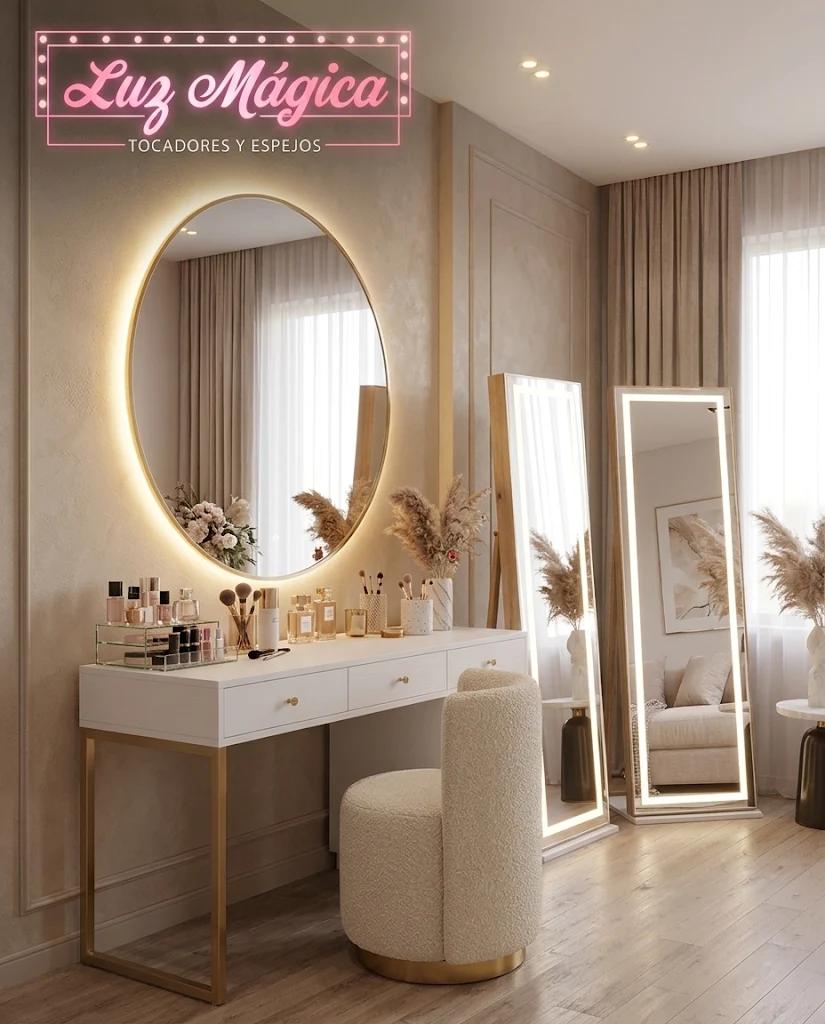
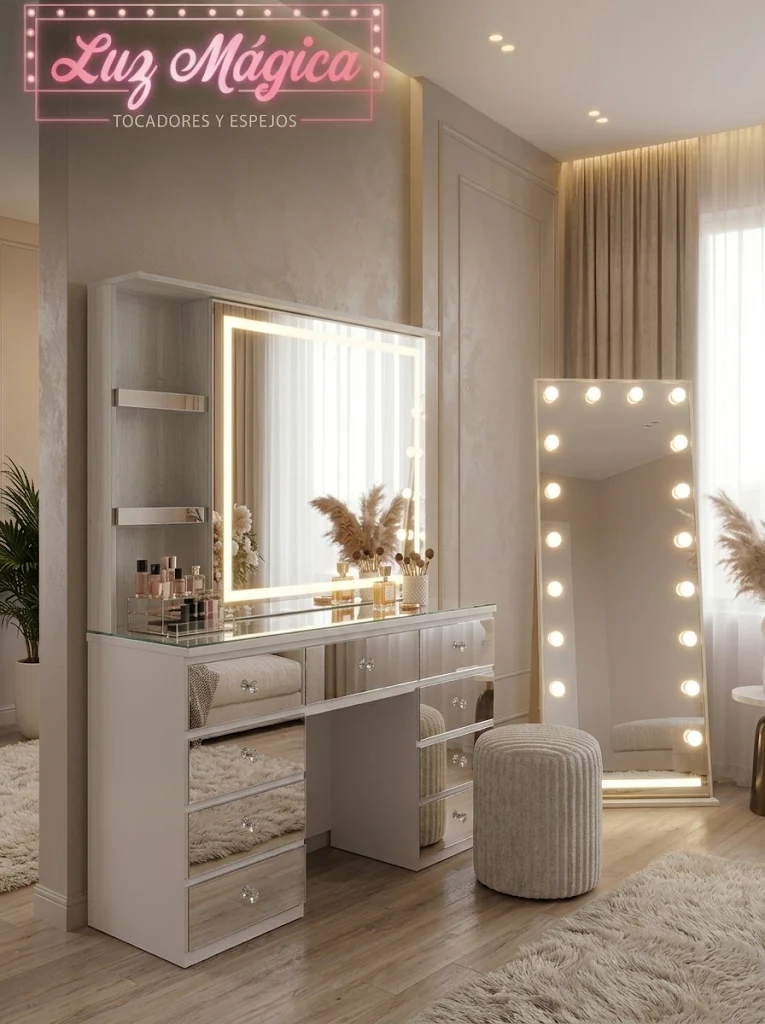
Nueva foto principal
El letrero de Luz Mágica va pegado al borde de arriba y el marco 4:5
recorta un 7% de alto, así que se comía el borde del aviso. La foto de
portada ahora se recorta por abajo, donde solo hay piso.

Claude-Session: https://claude.ai/code/session_011eobbjNKLebWFYjRNiomiJ

diff --git a/src/assets/estilos.css b/src/assets/estilos.css
@@ -229,6 +229,10 @@ a, button, label, summary {
 
 /* Franja de marca: una sola frase, centrada y con aire, entre la portada
    y el catálogo. Sin fondo de color para que no compita con la foto. */
+/* La foto de portada se recorta por abajo, no por el centro: el letrero de
+   Luz Mágica va pegado al borde de arriba y el recorte centrado se lo comía. */
+.hero__foto img { object-position: top; }
+
 .marca-frase {
   border-top: 1px solid var(--rosa-linea);
   border-bottom: 1px solid var(--rosa-linea);
